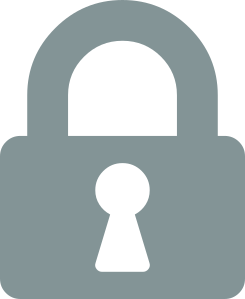
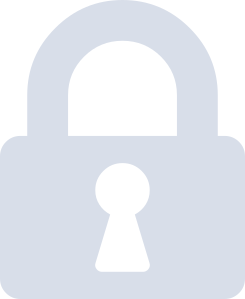
use Nord color palette
for now as a drop in replacement of previous colors
meaning the Nord red-ish color replace the Solarized red-ish color
and so on approximately

diff --git a/colors/README.md b/colors/README.md
@@ -1,22 +1,24 @@
 # Color scheme
 
-Using [Solarized](http://ethanschoonover.com/solarized) Dark adapted to base16.
+Using [Nord](https://arcticicestudio.github.io/nord/) palette
+with own adaptation per package  
+(not using individual "official" repositories config).
 
-| BASE16 | SOLARIZED | HEX     | 16 | ANSI NAME | BASE16 STYLING GUIDELINES                                           |
-|--------|-----------|---------|----|-----------|---------------------------------------------------------------------|
-| base00 | base03    | #002b36 |  8 | brblack   | Default Background                                                  |
-| base01 | base02    | #073642 |  0 | black     | Lighter Background (Used for status bars)                           |
-| base02 | base01    | #586e75 | 10 | brgreen   | Selection Background                                                |
-| base03 | base00    | #657b83 | 11 | bryellow  | Comments, Invisibles, Line Highlighting                             |
-| base04 | base0     | #839496 | 12 | brblue    | Dark Foreground (Used for status bars)                              |
-| base05 | base1     | #93a1a1 | 14 | brcyan    | Default Foreground, Caret, Delimiters, Operators                    |
-| base06 | base2     | #eee8d5 |  7 | white     | Light Foreground (Not often used)                                   |
-| base07 | base3     | #fdf6e3 | 15 | brwhite   | Light Background (Not often used)                                   |
-| base08 | red       | #dc322f |  1 | red       | Variables, XML Tags, Markup Link Text, Markup Lists, Diff Deleted   |
-| base09 | orange    | #cb4b16 |  9 | brred     | Integers, Boolean, Constants, XML Attributes, Markup Link Url       |
-| base0A | yellow    | #b58900 |  3 | yellow    | Classes, Markup Bold, Search Text Background                        |
-| base0B | green     | #859900 |  2 | green     | Strings, Inherited Class, Markup Code, Diff Inserted                |
-| base0C | cyan      | #2aa198 |  6 | cyan      | Support, Regular Expressions, Escape Characters, Markup Quotes      |
-| base0D | blue      | #268bd2 |  4 | blue      | Functions, Methods, Attribute IDs, Headings                         |
-| base0E | violet    | #6c71c4 | 13 | brmagenta | Keywords, Storage, Selector, Markup Italic, Diff Changed            |
-| base0F | magenta   | #d33682 |  5 | magenta   | Deprecated, Opening/Closing Embedded Language Tags, e.g. <?php ?>   |
+| BASE16 | NORD   | HEX     | 16 | ANSI NAME | BASE16 STYLING GUIDELINES                                           |
+|--------|--------|---------|----|-----------|---------------------------------------------------------------------|
+| base00 | nord0  | #2e3440 |  8 | brblack   | Default Background                                                  |
+| base01 | nord1  | #3b4252 |  0 | black     | Lighter Background (Used for status bars)                           |
+| base02 | nord2  | #434c5e | 10 | brgreen   | Selection Background                                                |
+| base03 | nord3  | #4c566a | 11 | bryellow  | Comments, Invisibles, Line Highlighting                             |
+| base04 | nord4  | #d8dee9 | 12 | brblue    | Dark Foreground (Used for status bars)                              |
+| base05 | nord9  | #81a1c1 | 14 | brcyan    | Default Foreground, Caret, Delimiters, Operators                    |
+| base06 | nord5  | #e5e9f0 |  7 | white     | Light Foreground (Not often used)                                   |
+| base07 | nord6  | #eceff4 | 15 | brwhite   | Light Background (Not often used)                                   |
+| base08 | nord11 | #bf616a |  1 | red       | Variables, XML Tags, Markup Link Text, Markup Lists, Diff Deleted   |
+| base09 | nord12 | #d08770 |  9 | brred     | Integers, Boolean, Constants, XML Attributes, Markup Link Url       |
+| base0A | nord13 | #ebcb8b |  3 | yellow    | Classes, Markup Bold, Search Text Background                        |
+| base0B | nord14 | #a3be8c |  2 | green     | Strings, Inherited Class, Markup Code, Diff Inserted                |
+| base0C | nord7  | #8fbcbb |  6 | cyan      | Support, Regular Expressions, Escape Characters, Markup Quotes      |
+| base0D | nord8  | #88c0d0 |  4 | blue      | Functions, Methods, Attribute IDs, Headings                         |
+| base0E | nord10 | #5e81ac | 13 | brmagenta | Keywords, Storage, Selector, Markup Italic, Diff Changed            |
+| base0F | nord15 | #b48ead |  5 | magenta   | Deprecated, Opening/Closing Embedded Language Tags, e.g. <?php ?>   |
